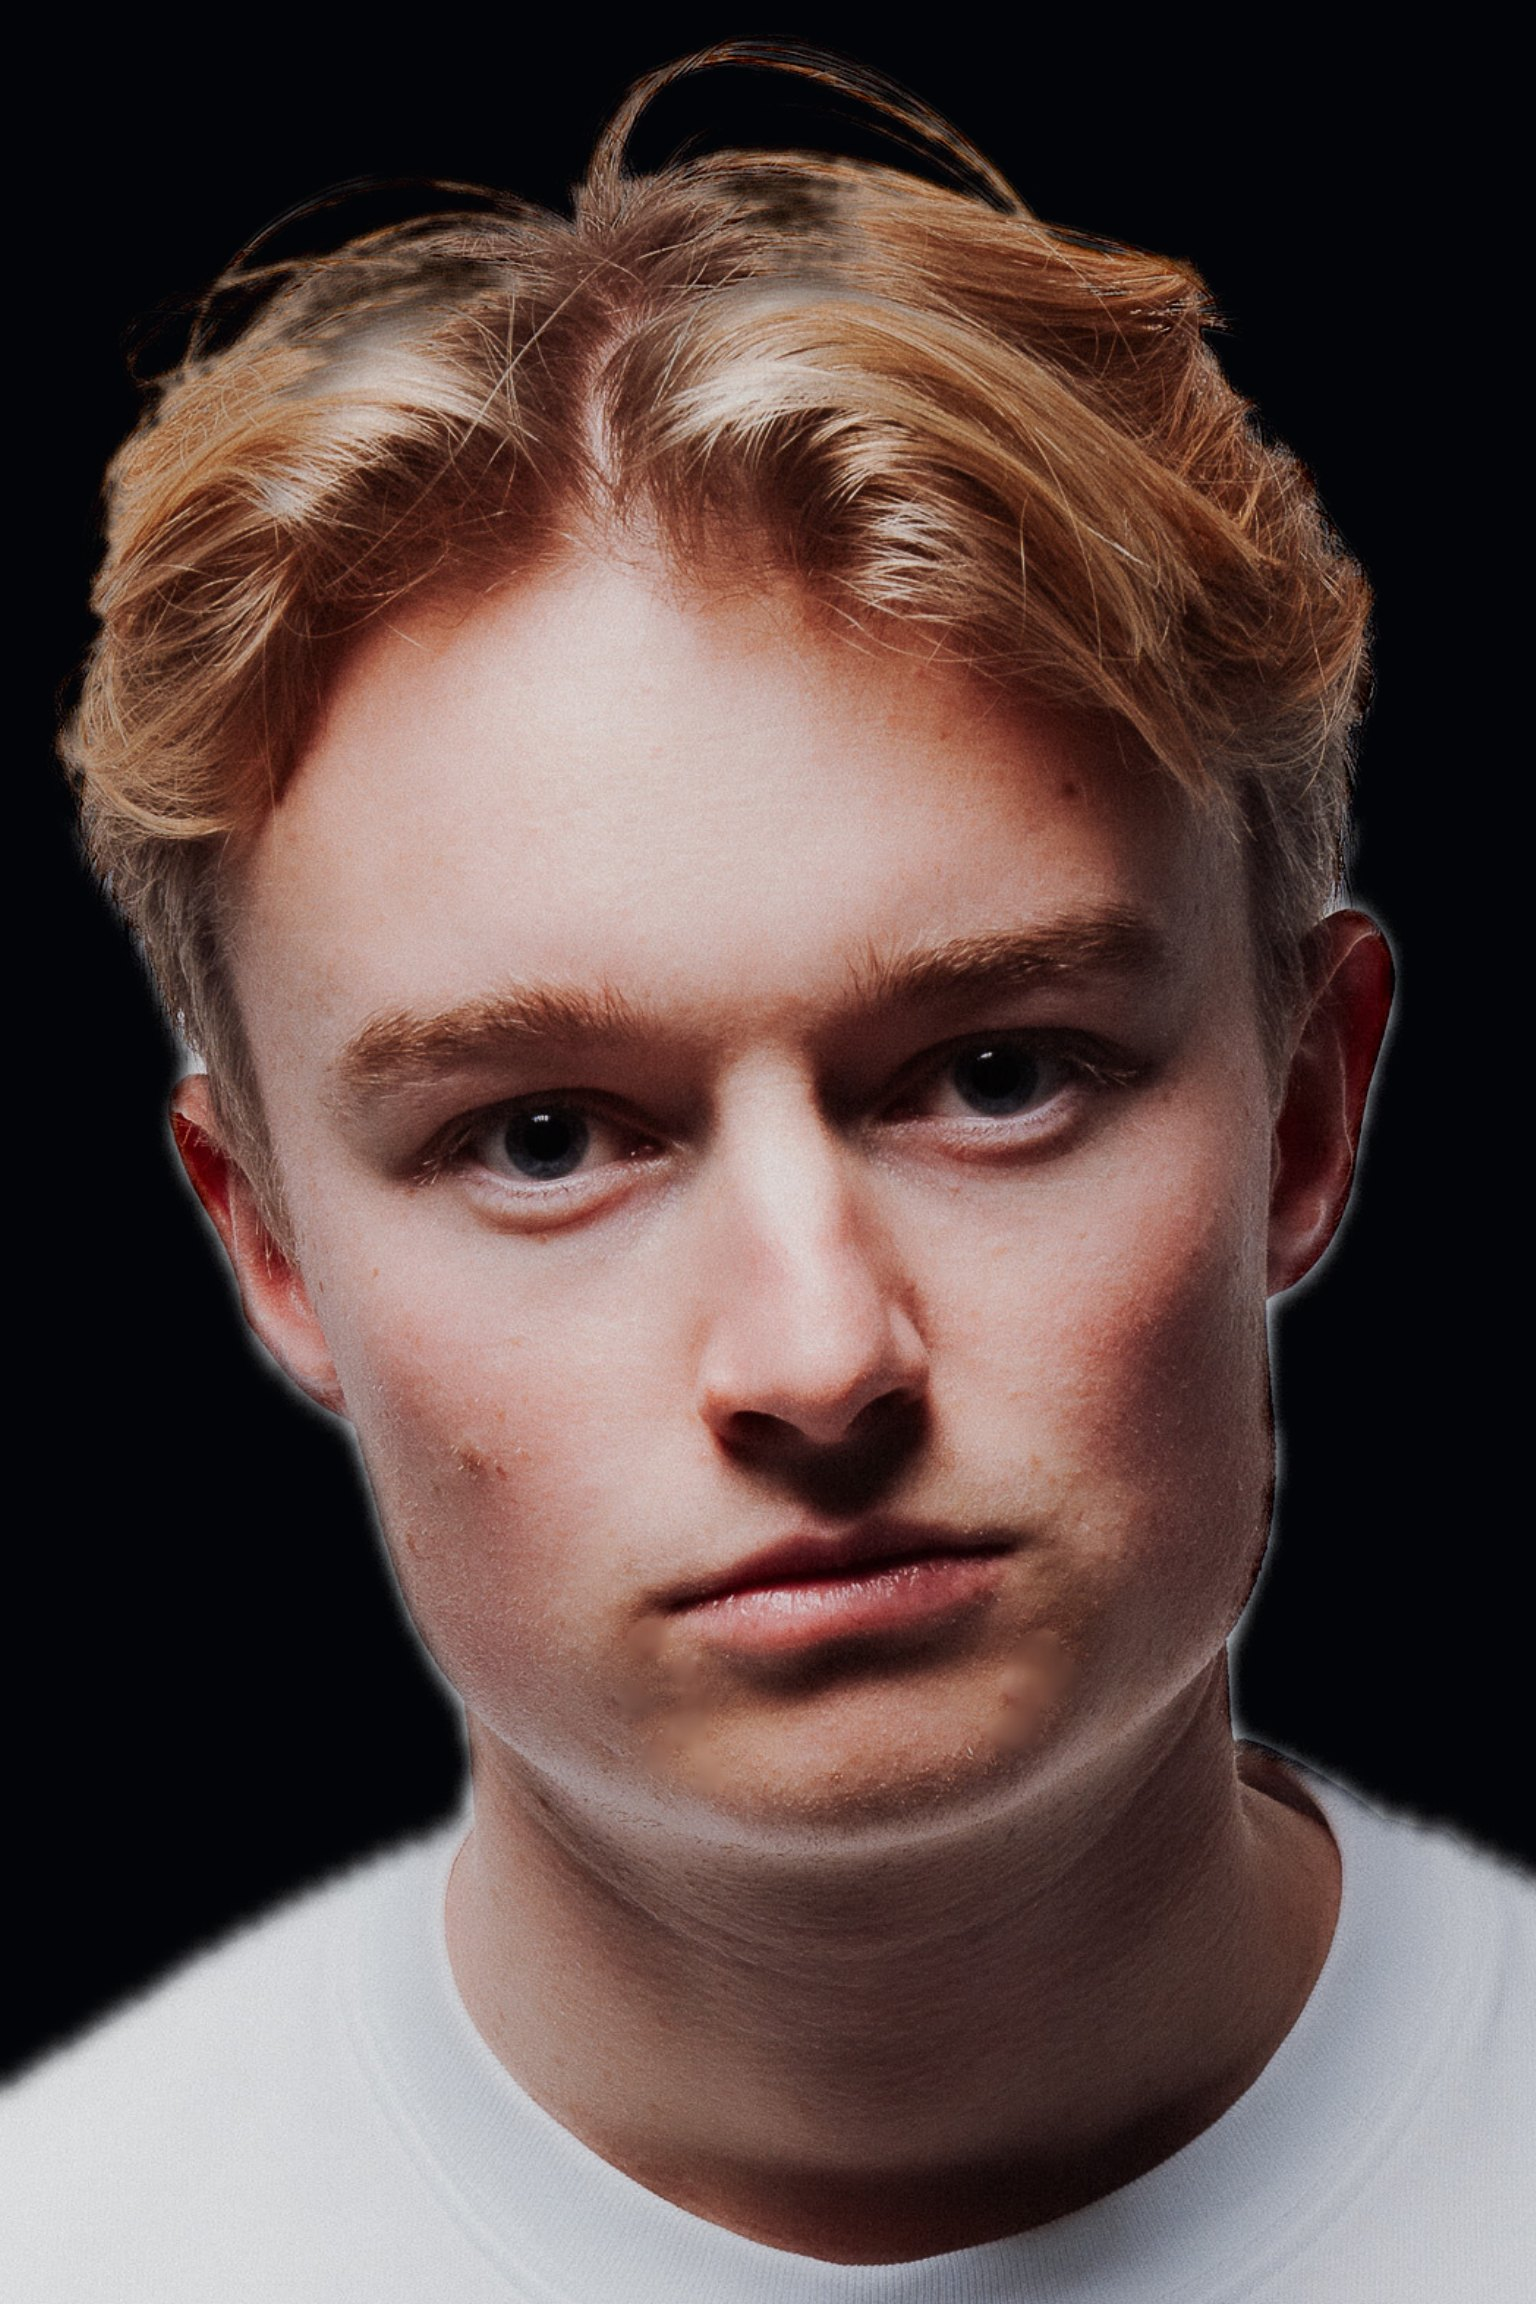
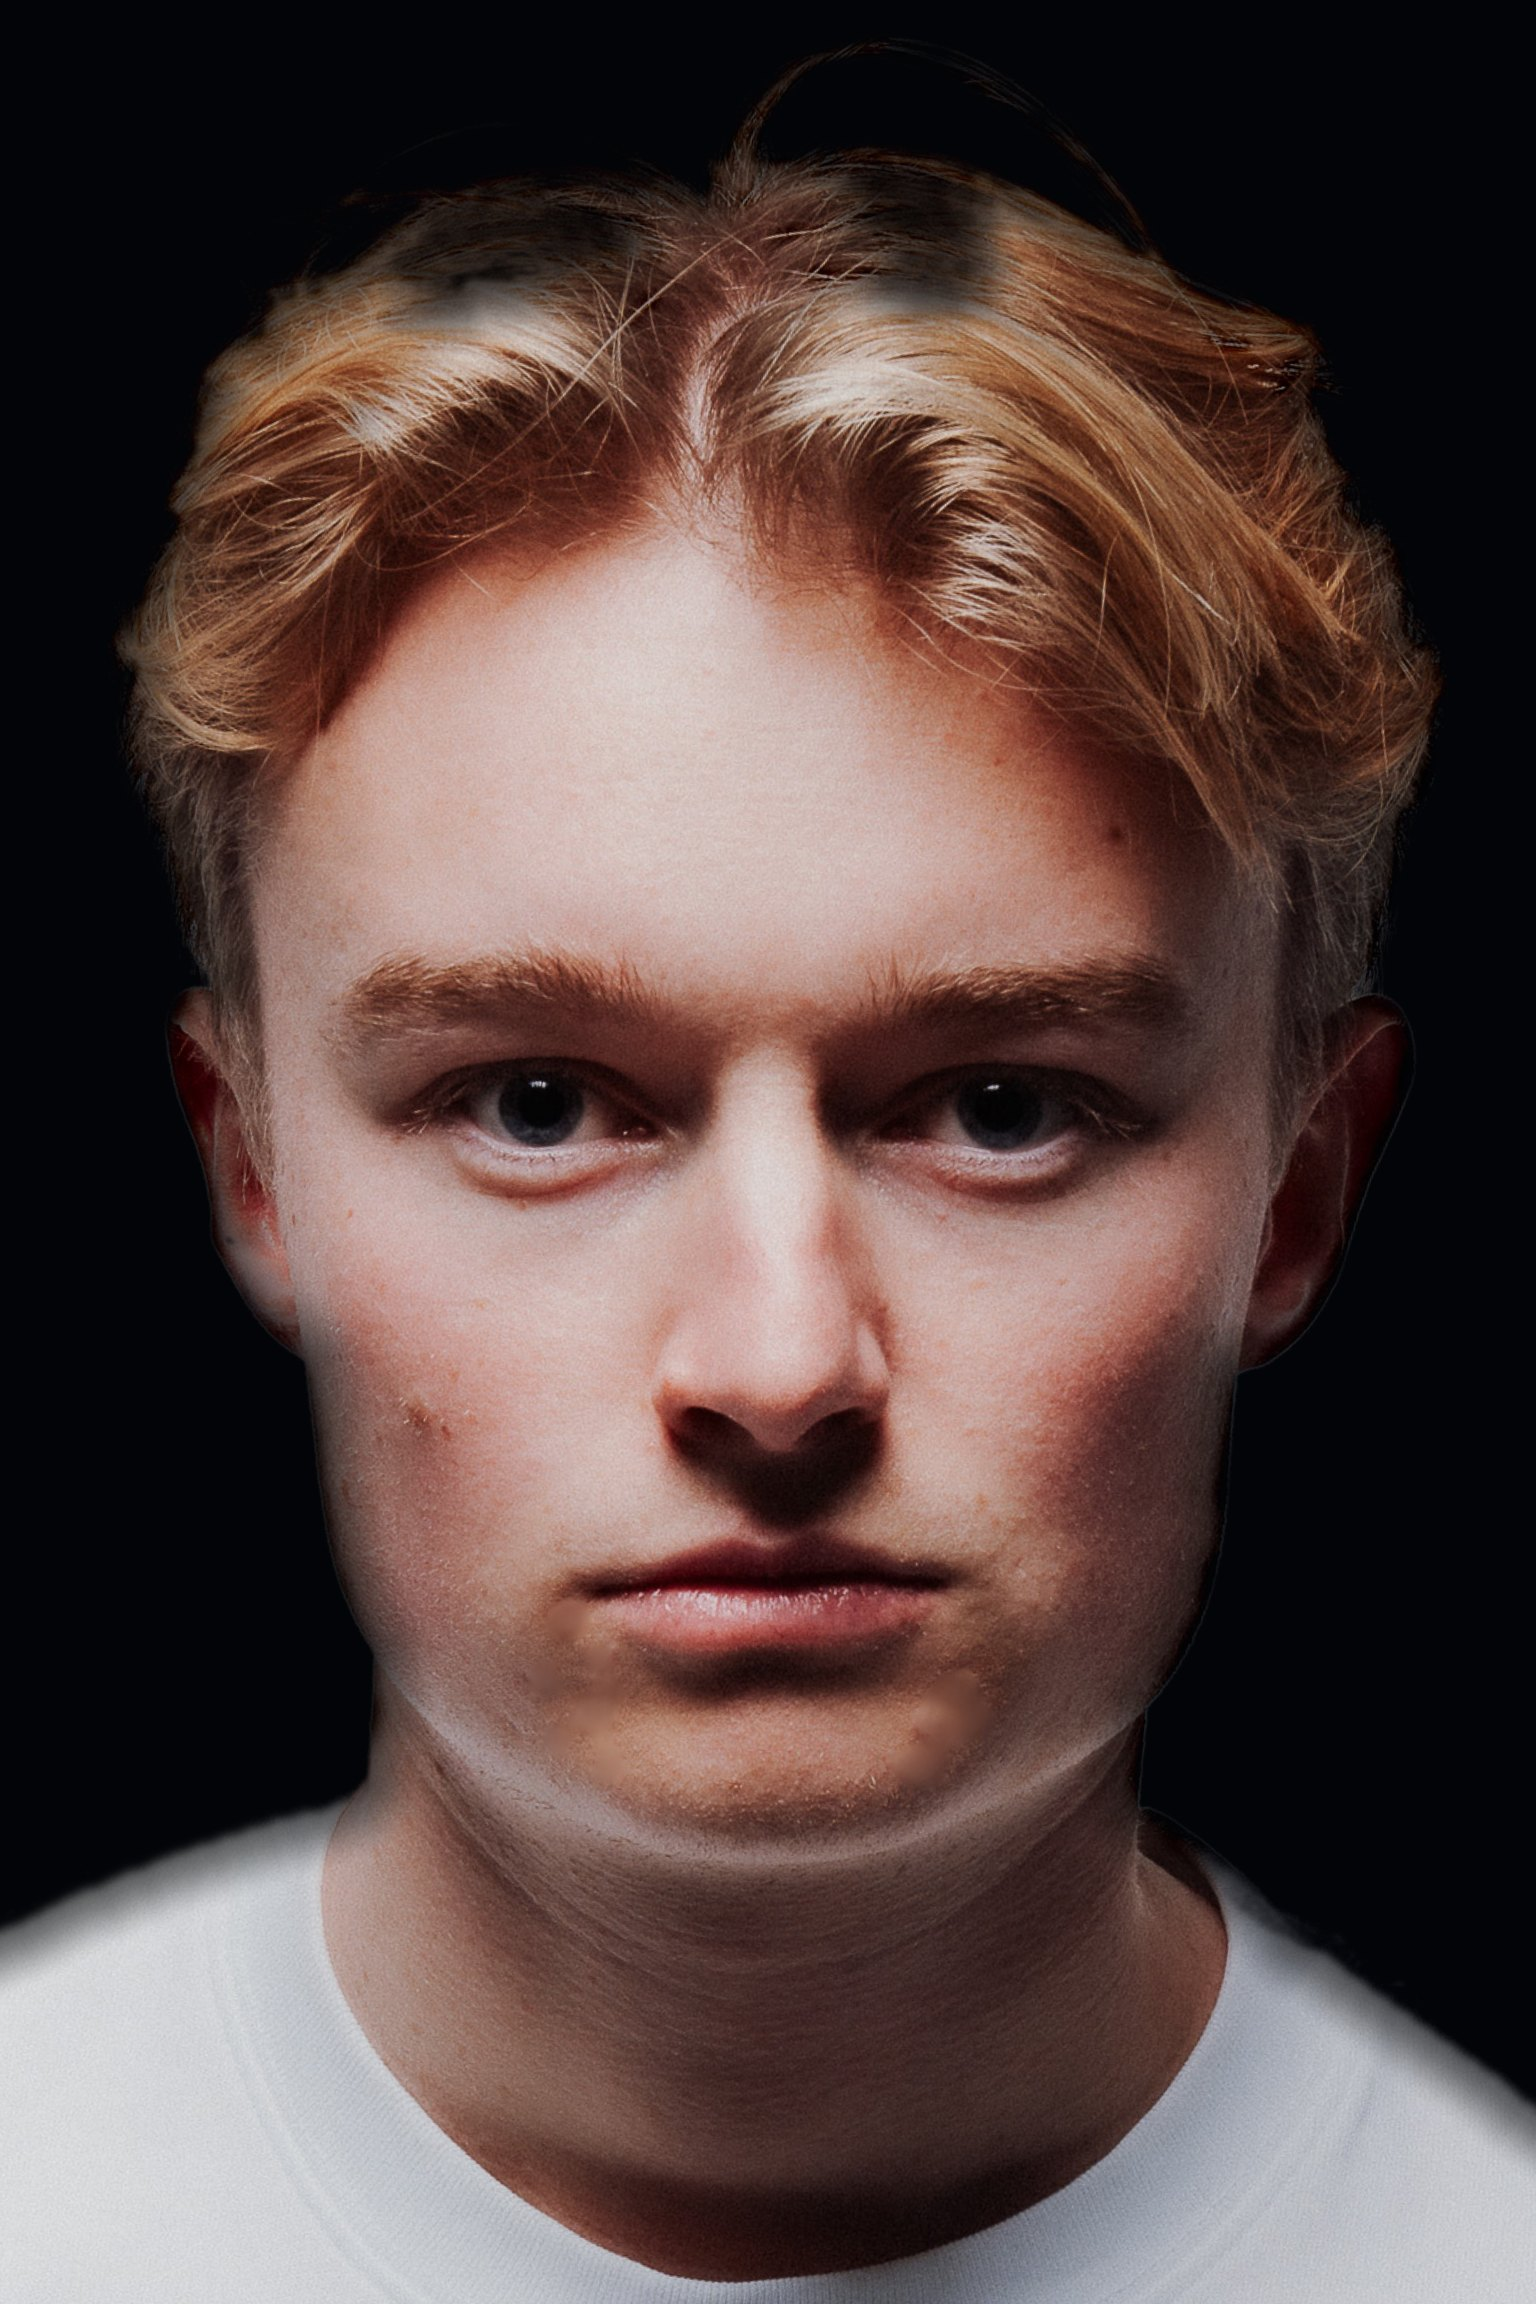
Fix main pic

diff --git a/src/styles.css b/src/styles.css
@@ -230,18 +230,7 @@ a {
   position: absolute;
   inset: 0;
 
-  background:
-    radial-gradient(
-      circle at 20% 60%,
-      rgba(0, 118, 255, 0.2),
-      transparent 32%
-    ),
-    radial-gradient(
-      circle at 80% 45%,
-      rgba(255, 0, 26, 0.22),
-      transparent 35%
-    ),
-    #090b10;
+  background: var(--black);
 }
 
 .hero {
@@ -299,14 +288,6 @@ a {
   animation: hero-drift 24s ease-in-out infinite alternate;
 }
 
-.hero-blue-light {
-  animation: hero-breathe 5s ease-in-out infinite alternate;
-}
-
-.hero-red-light {
-  animation: hero-breathe 5s ease-in-out 1.5s infinite alternate;
-}
-
 @keyframes hero-drift {
   from {
     transform: scale(1);
@@ -314,12 +295,6 @@ a {
 
   to {
     transform: scale(1.06);
-  }
-}
-
-@keyframes hero-breathe {
-  to {
-    opacity: 0.55;
   }
 }
 
@@ -334,8 +309,6 @@ a {
 
 @media (prefers-reduced-motion: reduce) {
   .hero-media,
-  .hero-blue-light,
-  .hero-red-light,
   .hero-grain {
     animation: none;
   }
@@ -352,34 +325,6 @@ a {
     rgba(0, 0, 0, 0.15) 50%,
     rgba(3, 4, 7, 0.92) 88%,
     var(--black)
-  );
-}
-
-.hero-red-light,
-.hero-blue-light {
-  position: absolute;
-  z-index: 4;
-  inset: 0;
-
-  pointer-events: none;
-
-  -webkit-mask-image: linear-gradient(to bottom, black 55%, transparent 100%);
-  mask-image: linear-gradient(to bottom, black 55%, transparent 100%);
-}
-
-.hero-red-light {
-  background: radial-gradient(
-    circle at 95% 70%,
-    rgba(255, 0, 26, 0.34),
-    transparent 30%
-  );
-}
-
-.hero-blue-light {
-  background: radial-gradient(
-    circle at 5% 45%,
-    rgba(0, 118, 255, 0.32),
-    transparent 30%
   );
 }
 

diff --git a/src/components/Hero.jsx b/src/components/Hero.jsx
@@ -11,9 +11,6 @@ function Hero() {
 
       <div className="hero-overlay" />
 
-      <div className="hero-red-light" />
-      <div className="hero-blue-light" />
-
       <div className="hero-grain" />
 
       <h1 className="visually-hidden">Diètro</h1>
